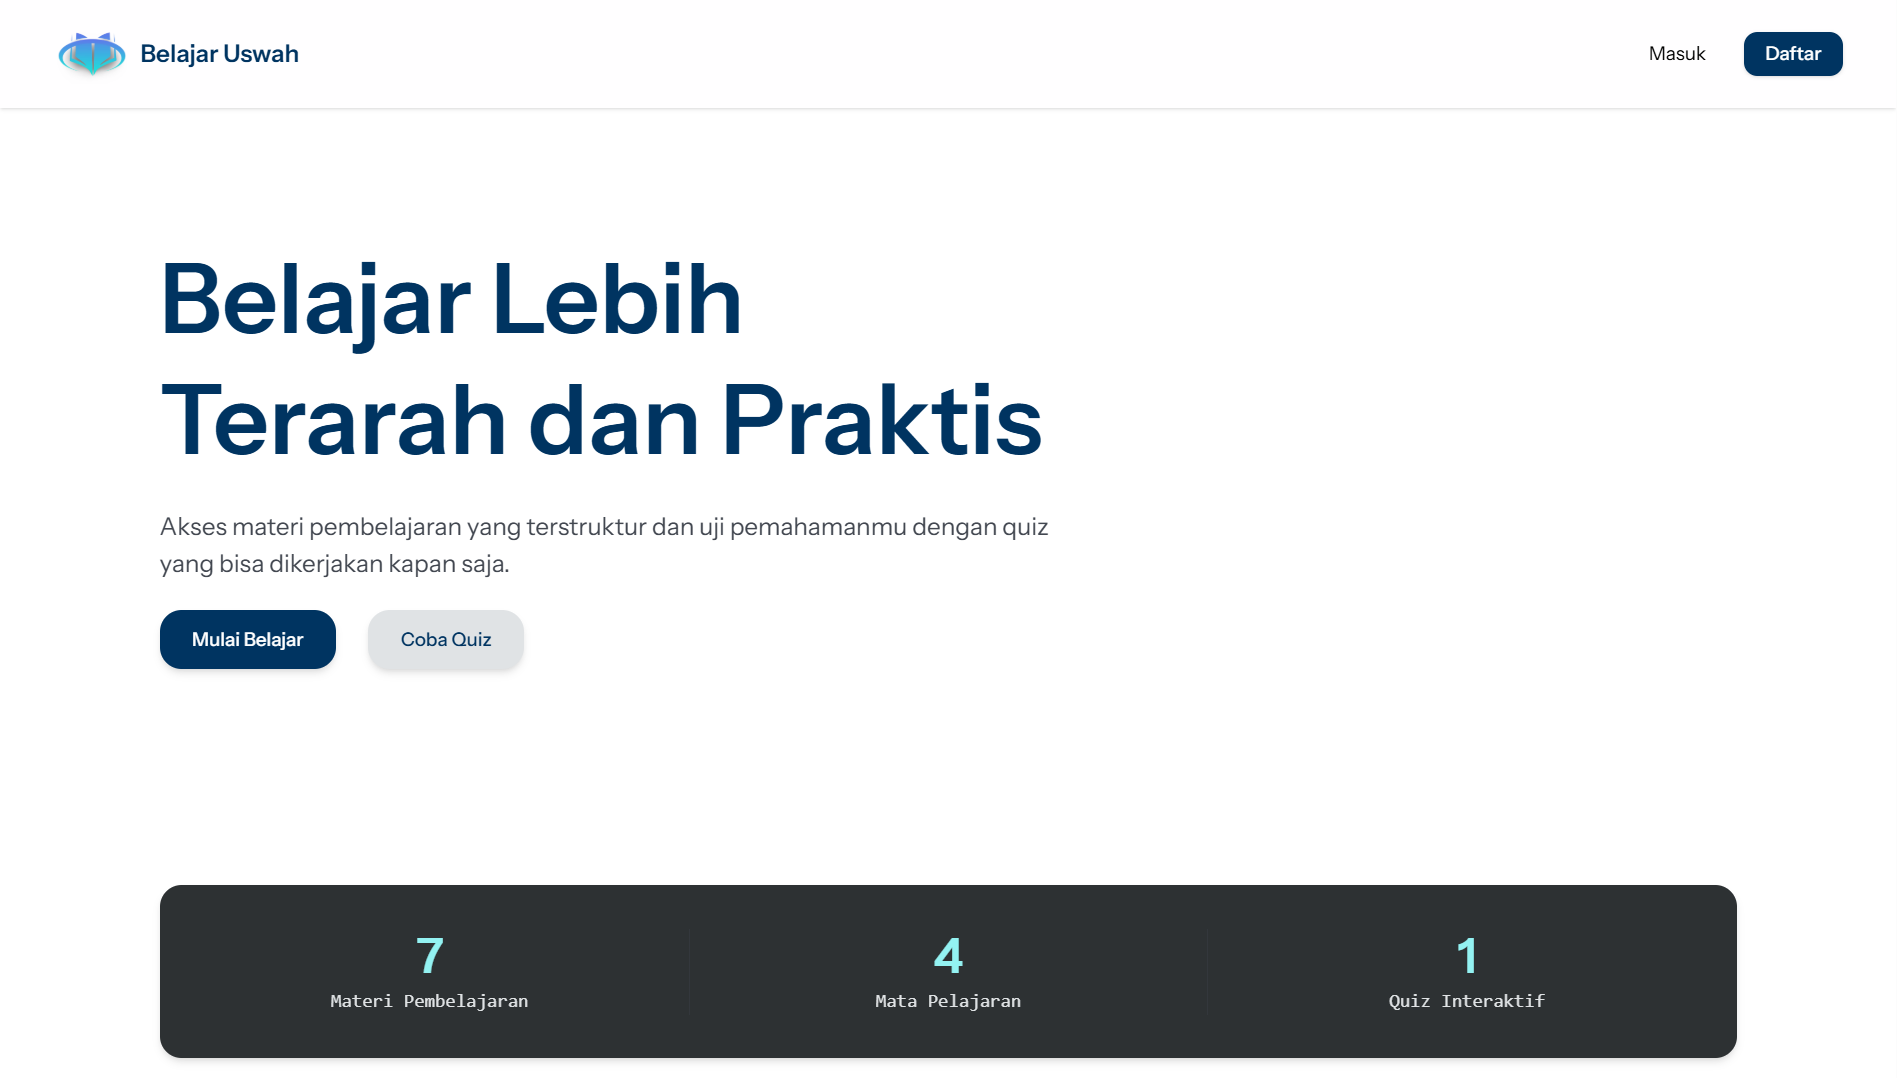
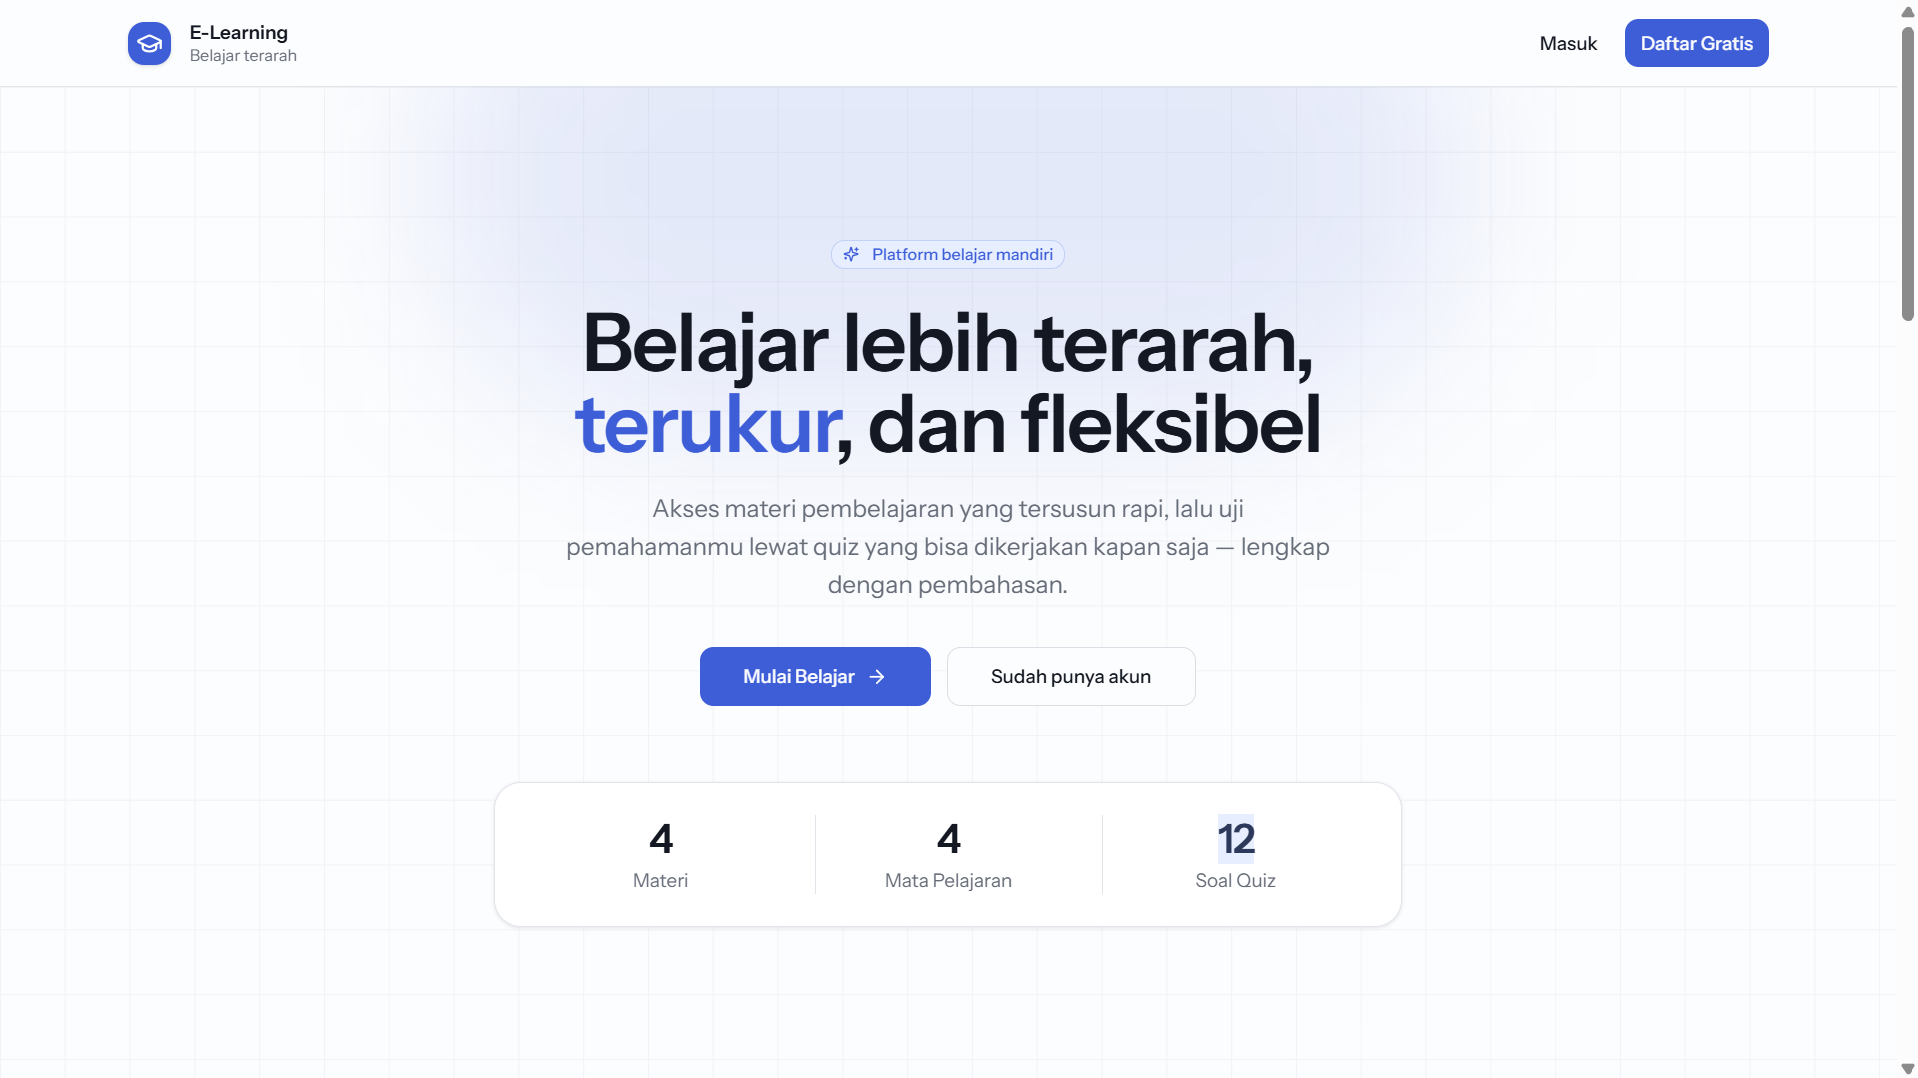
add

diff --git a/src/app/(pages)/dekstop/projects/[slug]/page.tsx b/src/app/(pages)/dekstop/projects/[slug]/page.tsx
@@ -8,6 +8,8 @@ import {
   FaExternalLinkAlt,
   FaAndroid,
   FaFilePowerpoint,
+  FaChevronLeft,
+  FaChevronRight,
 } from "react-icons/fa";
 const comfortaa = Comfortaa({ weight: ["400", "700"], subsets: ["latin"] });
 const jetbrainsMono = JetBrains_Mono({
@@ -203,8 +205,10 @@ const projectData: Record<string, ProjectDetail> = {
     logo: "/images/e-learning/logo.png",
     github: "https://github.com/Hammamujahid/e-learning",
     screenshots: [
-      { src: "/images/e-learning/1.png", caption: "Hero section" },
-      { src: "/images/e-learning/2.png", caption: "Material page" },
+      { src: "/images/e-learning/1.png", caption: "Homepage view" },
+      { src: "/images/e-learning/2.png", caption: "Dashboard view" },
+      { src: "/images/e-learning/3.png", caption: "Feature add material view" },
+      { src: "/images/e-learning/4.png", caption: "Quiz page view" },
     ],
   },
   docxtra: {
@@ -284,49 +288,149 @@ const projectData: Record<string, ProjectDetail> = {
     ],
   },
 };
-function Screenshot({ src, caption }: { src: string; caption: string }) {
+type Shot = { src: string; caption: string };
+
+/* Semua gambar (web / mobile) dirender dengan tinggi stage yang sama */
+function Slide({
+  shot,
+  isMobile,
+  priority,
+}: {
+  shot: Shot;
+  isMobile: boolean;
+  priority?: boolean;
+}) {
   return (
-    <figure className="group flex flex-col">
-      {" "}
-      {/* Tanpa background ΓÇö gambar langsung */}{" "}
-      <div className="overflow-hidden rounded-xl">
-        {" "}
-        <Image
-          src={src}
-          alt={caption}
-          width={1200}
-          height={750}
-          sizes="(max-width: 768px) 100vw, 700px"
-          className="w-full h-auto transition duration-300 group-hover:scale-105"
-        />{" "}
-      </div>{" "}
-      <figcaption className="mt-2 w-fit self-start rounded-md bg-white/10 border border-white/10 px-2.5 py-1 text-[10px] text-silverwhite/85 backdrop-blur-sm">
-        {" "}
-        {caption}{" "}
-      </figcaption>{" "}
-    </figure>
+    <div className="relative h-full w-full">
+      <Image
+        src={shot.src}
+        alt={shot.caption}
+        fill
+        sizes="(max-width: 768px) 100vw, 900px"
+        priority={priority}
+        className={`object-contain ${
+          isMobile
+            ? "drop-shadow-[0_10px_30px_rgba(0,0,0,0.45)]"
+            : "drop-shadow-[0_10px_30px_rgba(0,0,0,0.35)]"
+        }`}
+      />
+    </div>
   );
 }
-function MobileShot({ src, caption }: { src: string; caption: string }) {
+
+function Carousel({
+  shots,
+  variant,
+}: {
+  shots: Shot[];
+  variant: "web" | "mobile" | "mixed";
+}) {
+  const [index, setIndex] = useState(0);
+  const total = shots.length;
+
+  const isMobileShot = (i: number) =>
+    variant === "mobile" || (variant === "mixed" && i > 0);
+
+  const go = (dir: number) => {
+    setIndex((prev) => (prev + dir + total) % total);
+  };
+
+  useEffect(() => {
+    const onKey = (e: KeyboardEvent) => {
+      if (e.key === "ArrowLeft") setIndex((p) => (p - 1 + total) % total);
+      if (e.key === "ArrowRight") setIndex((p) => (p + 1) % total);
+    };
+    window.addEventListener("keydown", onKey);
+    return () => window.removeEventListener("keydown", onKey);
+  }, [total]);
+
+  if (total === 0) return null;
+
   return (
-    <figure className="group flex flex-col items-center gap-2">
-      {" "}
-      <div className="relative w-40 sm:w-44 overflow-hidden rounded-2xl shadow-lg">
-        {" "}
-        <Image
-          src={src}
-          alt={caption}
-          width={720}
-          height={1280}
-          sizes="176px"
-          className="w-full h-auto transition duration-300 group-hover:scale-105"
-        />{" "}
-      </div>{" "}
-      <figcaption className="mt-1 rounded-md bg-white/10 border border-white/10 px-2.5 py-1 text-[10px] text-silverwhite/85 backdrop-blur-sm">
-        {" "}
-        {caption}{" "}
-      </figcaption>{" "}
-    </figure>
+    <div className="group/carousel flex flex-col gap-3">
+      {/* Stage */}
+      <div className="relative rounded-2xl bg-gradient-to-b from-white/8 to-white/[0.02] ring-1 ring-white/10 p-3 sm:p-4 overflow-hidden">
+        {/* Glow dekoratif */}
+        <div className="pointer-events-none absolute -top-16 -right-16 w-48 h-48 rounded-full bg-pink/20 blur-3xl" />
+
+        <div className="relative h-[240px] sm:h-[340px] md:h-[420px] overflow-hidden">
+          <div
+            className="flex h-full transition-transform duration-500 ease-[cubic-bezier(0.22,1,0.36,1)]"
+            style={{ transform: `translateX(-${index * 100}%)` }}
+          >
+            {shots.map((shot, i) => (
+              <div key={shot.caption} className="h-full w-full shrink-0 px-1">
+                <Slide
+                  shot={shot}
+                  isMobile={isMobileShot(i)}
+                  priority={i === 0}
+                />
+              </div>
+            ))}
+          </div>
+        </div>
+
+        {/* Caption overlay */}
+        <div className="mt-3 flex items-center justify-center">
+          <span className="rounded-full bg-nightblue/50 border border-white/10 px-3 py-1 text-[10px] sm:text-[11px] text-silverwhite/85 backdrop-blur-md">
+            {shots[index].caption}
+          </span>
+        </div>
+
+        {/* Nav buttons */}
+        {total > 1 && (
+          <>
+            <button
+              onClick={() => go(-1)}
+              aria-label="Previous image"
+              className="absolute left-3 top-1/2 -translate-y-1/2 flex items-center justify-center w-10 h-10 rounded-full bg-nightblue/60 border border-white/15 text-silverwhite backdrop-blur-md opacity-0 group-hover/carousel:opacity-100 focus-visible:opacity-100 transition-all hover:bg-pink/40 hover:border-pink/50 hover:scale-110 max-sm:opacity-100"
+            >
+              <FaChevronLeft className="w-3.5 h-3.5" />
+            </button>
+            <button
+              onClick={() => go(1)}
+              aria-label="Next image"
+              className="absolute right-3 top-1/2 -translate-y-1/2 flex items-center justify-center w-10 h-10 rounded-full bg-nightblue/60 border border-white/15 text-silverwhite backdrop-blur-md opacity-0 group-hover/carousel:opacity-100 focus-visible:opacity-100 transition-all hover:bg-pink/40 hover:border-pink/50 hover:scale-110 max-sm:opacity-100"
+            >
+              <FaChevronRight className="w-3.5 h-3.5" />
+            </button>
+
+            {/* Counter */}
+            <span
+              className={`${jetbrainsMono.className} absolute top-4 right-4 rounded-full bg-nightblue/60 border border-white/10 px-2.5 py-1 text-[10px] text-silverwhite/80 backdrop-blur-md`}
+            >
+              {index + 1} / {total}
+            </span>
+          </>
+        )}
+      </div>
+
+      {/* Thumbnails */}
+      {total > 1 && (
+        <div className="flex items-center justify-center gap-2">
+          {shots.map((shot, i) => (
+            <button
+              key={shot.caption}
+              onClick={() => setIndex(i)}
+              aria-label={`Go to ${shot.caption}`}
+              className={`relative h-12 w-16 shrink-0 overflow-hidden rounded-lg border transition ${
+                i === index
+                  ? "border-pink ring-2 ring-pink/30 opacity-100"
+                  : "border-white/10 opacity-50 hover:opacity-90"
+              }`}
+            >
+              <Image
+                src={shot.src}
+                alt={shot.caption}
+                fill
+                sizes="64px"
+                className="object-cover"
+              />
+            </button>
+          ))}
+        </div>
+      )}
+    </div>
   );
 }
 export default function ProjectDetail() {
@@ -473,12 +577,12 @@ export default function ProjectDetail() {
                         {project.role}
                       </span>
                     )}
-                    {project.timeline && (
+                    {/* {project.timeline && (
                       <span className="inline-flex items-center gap-1.5 rounded-lg bg-white/8 px-2.5 py-1 text-[10px] text-silverwhite/80">
                         <span className="uppercase text-[9px] font-bold text-silverwhite/40">Timeline</span>
                         {project.timeline}
                       </span>
-                    )}
+                    )} */}
                   </div>
                 )}
               </div>
@@ -535,35 +639,10 @@ export default function ProjectDetail() {
                   <span className="w-3 h-3 rounded-sm bg-gradient-to-br from-pink to-pink/60" />{" "}
                   Images{" "}
                 </h3>{" "}
-                {project.template === "web" && (
-                  <div className="grid grid-cols-1 md:grid-cols-2 gap-4">
-                    {" "}
-                    {project.screenshots.map((s) => (
-                      <Screenshot key={s.caption} {...s} />
-                    ))}{" "}
-                  </div>
-                )}{" "}
-                {project.template === "mobile" && (
-                  <div className="flex flex-wrap items-start justify-center gap-6 sm:gap-10 py-4">
-                    {" "}
-                    {project.screenshots.map((s) => (
-                      <MobileShot key={s.caption} {...s} />
-                    ))}{" "}
-                  </div>
-                )}{" "}
-                {project.template === "mixed" && (
-                  <div className="flex flex-col md:flex-row md:items-start gap-6 md:gap-8">
-                    {" "}
-                    <div className="flex-1 min-w-0">
-                      {" "}
-                      <Screenshot {...project.screenshots[0]} />{" "}
-                    </div>{" "}
-                    <div className="flex-shrink-0 flex justify-center">
-                      {" "}
-                      <MobileShot {...project.screenshots[1]} />{" "}
-                    </div>{" "}
-                  </div>
-                )}{" "}
+                <Carousel
+                  shots={project.screenshots}
+                  variant={project.template}
+                />
               </div>
             )}{" "}
             {/* Key Features */}{" "}
